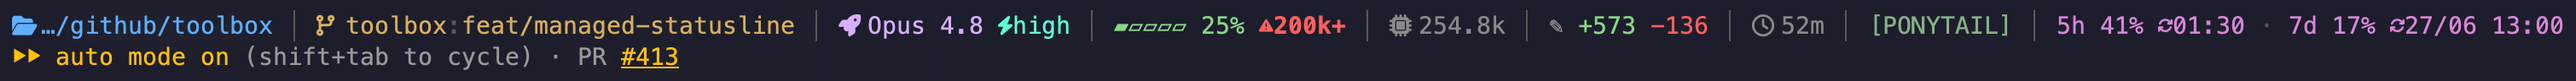
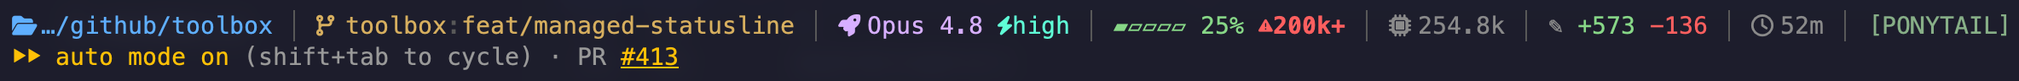
fix(image): honor CLAUDE_CONFIG_DIR in init.d, drift test, scrub screenshot
Review follow-ups:
- 35-statusline.sh / 36-mode-flags.sh resolve ${CLAUDE_CONFIG_DIR:-$HOME/.claude}
  like statusline-command.sh and the plugin hooks, instead of hardcoding
  $HOME/.claude — they now agree on which settings.json/flags to touch even if
  CLAUDE_CONFIG_DIR diverges.
- TestModePluginListsAgree (internal/build) pins the behavioral-mode plugin
  list in sync between emit_mode_badge (statusline-command.sh) and the pairs in
  36-mode-flags.sh, the drift the 'keep in sync' comments couldn't enforce.
- Crop the docs screenshot to drop the personal rate-limit segment (and update
  the alt text); the published image no longer leaks usage figures.

Changed region(s): [[0.0, 0.1875, 1.0, 0.4688], [0.0, 0.5625, 0.3438, 0.8438]]

diff --git a/internal/build/mode_flags_test.go b/internal/build/mode_flags_test.go
@@ -1,0 +1,62 @@
+package build
+
+import (
+	"reflect"
+	"regexp"
+	"sort"
+	"testing"
+)
+
+// TestModePluginListsAgree enforces that the behavioral-mode plugin list stays
+// in sync between the two places it is encoded: the emit_mode_badge calls in
+// statusline-command.sh (which render the [PONYTAIL]/[CAVEMAN] badge) and the
+// reconciliation pairs in init.d/36-mode-flags.sh (which reap a disabled
+// plugin's stale flag). The two use different representations and live in
+// separate scripts that deliberately don't share a source — statusline-command.sh
+// must stay portable, with no dependency on toolbox image paths. Without this
+// test, adding a third mode to one script but not the other would silently break:
+// either the badge never renders, or its stale flag is never reaped.
+func TestModePluginListsAgree(t *testing.T) {
+	read := func(name string) string {
+		b, err := Assets.ReadFile(AssetDir + "/" + name)
+		if err != nil {
+			t.Fatalf("read %s: %v", name, err)
+		}
+		return string(b)
+	}
+
+	// emit_mode_badge "$CFG/plugins/cache/<name>/...
+	badgeSet := matchSet(t, `emit_mode_badge "\$CFG/plugins/cache/([a-z0-9-]+)/`, read("statusline-command.sh"))
+	// "<name>@<marketplace>:.<flag>-active"
+	flagSet := matchSet(t, `"([a-z0-9-]+)@[a-z0-9-]+:\.[a-z0-9-]+-active"`, read("init.d/36-mode-flags.sh"))
+
+	if len(badgeSet) == 0 {
+		t.Fatal("no emit_mode_badge plugins matched in statusline-command.sh — regex drift?")
+	}
+	if len(flagSet) == 0 {
+		t.Fatal("no plugin pairs matched in 36-mode-flags.sh — regex drift?")
+	}
+	if !reflect.DeepEqual(badgeSet, flagSet) {
+		t.Errorf("behavioral-mode plugin lists disagree — add the mode to BOTH scripts:\n  statusline-command.sh (emit_mode_badge): %v\n  36-mode-flags.sh (pairs):                %v",
+			keys(badgeSet), keys(flagSet))
+	}
+}
+
+func matchSet(t *testing.T, pattern, s string) map[string]struct{} {
+	t.Helper()
+	re := regexp.MustCompile(pattern)
+	out := map[string]struct{}{}
+	for _, m := range re.FindAllStringSubmatch(s, -1) {
+		out[m[1]] = struct{}{}
+	}
+	return out
+}
+
+func keys(m map[string]struct{}) []string {
+	out := make([]string, 0, len(m))
+	for k := range m {
+		out = append(out, k)
+	}
+	sort.Strings(out)
+	return out
+}

diff --git a/docs/configuration.md b/docs/configuration.md
@@ -50,7 +50,7 @@ Login shell inside the container. Only `zsh` is supported (the default); `bash` 
 
 The runtime image ships a curated Claude Code statusline and applies it to every container by force-setting `~/.claude/settings.json` `statusLine` on each shell start (only that key is rewritten — everything else in your settings is preserved). It is image-owned policy: a local edit to the statusline is overwritten on the next shell, so **change it via a PR to this repo**, not in the container.
 
-![The managed statusline rendered in a toolbox shell: cwd, repo:branch, model + effort, context bar, token count, lines changed, session duration, behavioral-mode badge, and rate limits.](img/statusline.png)
+![The managed statusline rendered in a toolbox shell: cwd, repo:branch, model + effort, context bar, token count, lines changed, session duration, and behavioral-mode badge.](img/statusline.png)
 
 Set `managed_statusline: false` to opt out — the boot hook then leaves your own `statusLine` untouched. Default (omitted or `true`) is managed-on. Mechanics in [shell-start internals](internals/shell-start.md#managed-statusline).
 
